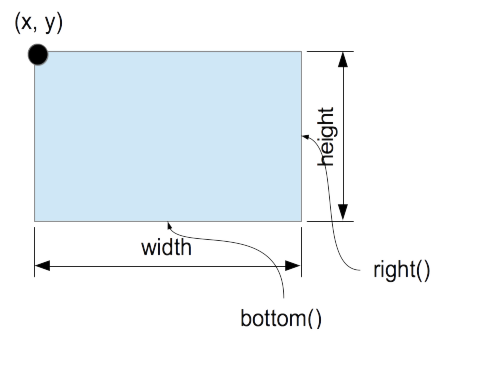
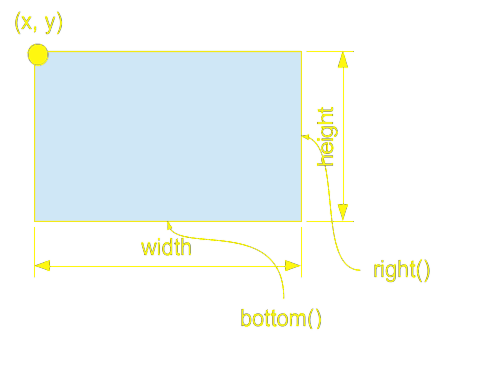
- Refactored CMake - Removed exclude() - Added CI/CD workflows

diff --git a/test/RectTests.cpp b/test/RectTests.cpp
@@ -302,70 +302,6 @@ TEST(RectClip, PreservesDimensionInvariant)
 }
 
 // ============================================================================
-// Exclude
-// ============================================================================
-
-TEST(RectExclude, NonOverlappingRectLeavesOriginalUntouched)
-{
-	Rect r = make_rect(0, 0, 10, 10);
-	const Rect other = make_rect(20, 20, 3, 3);
-
-	r.exclude(other);
-
-	EXPECT_EQ(r, make_rect(0, 0, 10, 10));
-}
-
-TEST(RectExclude, OverlapRemoved)
-{
-	Rect r = make_rect(0, 0, 10, 10);
-	const Rect other = make_rect(2, 2, 4, 4);
-
-	r.exclude(other);
-
-	// Should no longer overlap after exclusion
-	EXPECT_FALSE(r.overlaps(other));
-	EXPECT_GE(r.width, 0);
-	EXPECT_GE(r.height, 0);
-}
-
-TEST(RectExclude, PartialOverlapFromLeft)
-{
-	Rect r = make_rect(5, 5, 10, 10);
-	const Rect other = make_rect(0, 5, 8, 10);
-
-	r.exclude(other);
-
-	EXPECT_FALSE(r.overlaps(other));
-	EXPECT_GE(r.width, 0);
-	EXPECT_GE(r.height, 0);
-}
-
-TEST(RectExclude, PartialOverlapFromTop)
-{
-	Rect r = make_rect(5, 5, 10, 10);
-	const Rect other = make_rect(5, 0, 10, 8);
-
-	r.exclude(other);
-
-	EXPECT_FALSE(r.overlaps(other));
-	EXPECT_GE(r.width, 0);
-	EXPECT_GE(r.height, 0);
-}
-
-TEST(RectExclude, FullOverlapResultsInEmptyOrMinimalRect)
-{
-	Rect r = make_rect(5, 5, 5, 5);
-	const Rect other = make_rect(3, 3, 10, 10);
-
-	r.exclude(other);
-
-	// Fully contained; should result in valid but possibly empty rect
-	EXPECT_GE(r.width, 0);
-	EXPECT_GE(r.height, 0);
-	EXPECT_FALSE(r.overlaps(other));
-}
-
-// ============================================================================
 // Invariant and Edge Case Tests
 // ============================================================================
 
@@ -374,11 +310,6 @@ TEST(RectInvariants, DimensionsNeverNegativeAfterOperations)
 	Rect r = make_rect(5, 5, 10, 10);
 
 	r.clip(make_rect(20, 20, 5, 5));
-	EXPECT_GE(r.width, 0);
-	EXPECT_GE(r.height, 0);
-
-	r = make_rect(5, 5, 10, 10);
-	r.exclude(make_rect(0, 0, 20, 20));
 	EXPECT_GE(r.width, 0);
 	EXPECT_GE(r.height, 0);
 }

diff --git a/Rect.cpp b/Rect.cpp
@@ -197,30 +197,3 @@ void Rect::clip(Rect const & other)
     if (height < 0)
         height = 0;
 }
-
-//! Reduces this rectangle to avoid overlapping with another rectangle.
-//! If the rectangles overlap, modifies this rectangle by moving its anchor point
-//! to just beyond the overlapping region. Prefers moving right or down to maintain
-//! positive dimensions. If there is no overlap, the rectangle remains unchanged.
-//!
-//! @param other The rectangle to exclude from this one
-//! @pre other.valid() - The other rectangle must have non-negative dimensions
-//! @pre valid() - This rectangle must have non-negative dimensions
-void Rect::exclude(Rect const & other)
-{
-    assert(other.valid());
-    assert(valid());
-
-    if (!overlaps(other))
-        return;
-
-    // Move the rect's anchor to just beyond the overlapping region
-    // Prefer moving right or down to maintain positive dimensions
-    int new_x = std::min(std::max(x, other.right()), right());
-    int new_y = std::min(std::max(y, other.bottom()), bottom());
-
-    width  = std::max(0, width - (new_x - x));
-    height = std::max(0, height - (new_y - y));
-    x = new_x;
-    y = new_y;
-}

diff --git a/include/Rect/Rect.h b/include/Rect/Rect.h
@@ -53,9 +53,6 @@ public:
     //! Clips this rect by another rect.
     void clip(Rect const & other);
 
-    //! Reduces this rect so that it does not overlap another rect.
-    void exclude(Rect const & other);
-
 private:
     bool valid() const { return width >= 0 && height >= 0; }
 };

diff --git a/README.md b/README.md
@@ -1,4 +1,8 @@
 # Rect
+
+[![CI](https://github.com/jambolo/Rect/actions/workflows/ci.yml/badge.svg)](https://github.com/jambolo/Rect/actions/workflows/ci.yml)
+[![codecov](https://codecov.io/gh/jambolo/Rect/branch/master/graph/badge.svg)](https://codecov.io/gh/jambolo/Rect)
+
 Operations on rectangles with integer coordinates.
 
 ## Quick Start
@@ -64,9 +68,17 @@ r.contains(8, 9);  // false - y=9 is the bottom edge (excluded)
 ```
 
 ## Attributes
+
 ![Attributes](attributes.png)
 
-![overlaps()](overlaps.png) ![contains()](contains.png)
+## Relations
+
+|          overlaps()         |          contains()         |
+| --------------------------- | --------------------------- |
+| ![overlaps()](overlaps.png) | ![contains()](contains.png) |
 
 ## Operations
-![include()](include.png) ![clip()](clip.png)
+
+|          include()          |          clip()         |
+| --------------------------- | ----------------------- |
+| ![include()](include.png)   | ![clip()](clip.png)     |